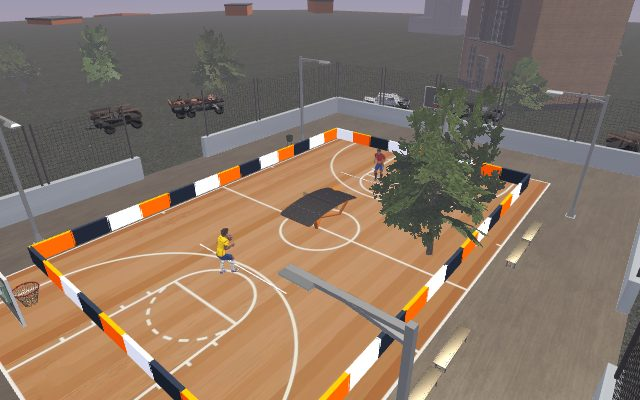
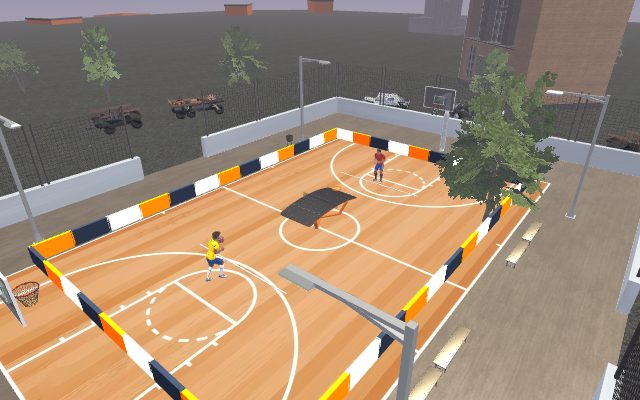
Kick with the feet everywhere, and light the outdoor courts
The feet-first rule only applied near the middle line, and near the middle line
means within 1.9 m of the net while players receive from three to seven metres
out — so almost every touch in a rally fell through to the deep branch, which
headed any high ball. That is why headers still dominated after the last
change. The ladder is the same wherever the player stands now; how high a ball
has to be sent from deep is a question for the flight, and `loftFloor` already
answers it. Measured over a real match: foot kicks 46%, backflips 8%, no
headers at all in twenty-four launches.

That loft is halved besides. The ramp threw a ball struck from the back of the
half almost straight up.

The side camera is up at about fifty degrees instead of thirty. The shallow
angle was chosen so the ball's height above the table would read, but from
nearly level the players overlap the table and each other, and knowing where
everybody is matters more.

Lighting follows the venue. One setting for an enclosed hall and three open-air
courts left the outdoor ones looking overcast; the hall keeps what it had,
since its own model carries that brightness.

Trees are pushed out to 23 m. At 18.5 the trunk stood outside the site but a
six-metre canopy leaned in over the boards, which from a raised camera is a
tree growing on the court.

The hall's card is shot from inside it — it is a closed building, so the
position the outdoor venues use photographs its roof — with the near plane
[…]

diff --git a/tests/character.test.ts b/tests/character.test.ts
@@ -589,19 +589,19 @@ describe("chooseStrike", () => {
   it("flips rather than heads a high ball on the strong side", () => {
     // Feet first is the whole point: up at the table a teqball player kicks or
     // flips, and the header used to win every high ball by default.
-    const clip = chooseStrike(at(0.95), RIGHT, STRONG_SIDE, righty, true, 1, () => 0.5, 0);
+    const clip = chooseStrike(at(0.95), RIGHT, STRONG_SIDE, righty, () => 0.5, 0);
 
     expect(clip).toBe("BackflipRightFoot");
   });
 
   it("kicks a mid ball rather than heading it", () => {
-    const clip = chooseStrike(at(0.4), RIGHT, STRONG_SIDE, righty, true, 1, () => 0.5, 0);
+    const clip = chooseStrike(at(0.4), RIGHT, STRONG_SIDE, righty, () => 0.5, 0);
 
     expect(clip).toBe("RightFootKick");
   });
 
   it("only takes a touch when the ball is too low for any of it", () => {
-    const clip = chooseStrike(at(0.05), RIGHT, STRONG_SIDE, righty, true, 1, () => 0.5, 0);
+    const clip = chooseStrike(at(0.05), RIGHT, STRONG_SIDE, righty, () => 0.5, 0);
 
     expect(clip).toBe("InnerRightFootReception");
   });
@@ -614,13 +614,13 @@ describe("chooseStrike", () => {
 
     it("heads it when the roll beats the weak foot's score", () => {
       // 0.9 > 0.70, so the foot is not trusted this time.
-      const clip = chooseStrike(high, weakSide, STRONG_SIDE, righty, true, 1, () => 0.9, 0);
+      const clip = chooseStrike(high, weakSide, STRONG_SIDE, righty, () => 0.9, 0);
 
       expect(clip).toBe("LeftHeadKick");
     });
 
     it("uses the foot when the roll is inside it", () => {
-      const clip = chooseStrike(high, weakSide, STRONG_SIDE, righty, true, 1, () => 0.5, 0);
+      const clip = chooseStrike(high, weakSide, STRONG_SIDE, righty, () => 0.5, 0);
 
       expect(clip).not.toContain("HeadKick");
     });
@@ -631,7 +631,7 @@ describe("chooseStrike", () => {
       const headers = (def: typeof poor) => {
         let n = 0;
         for (let i = 0; i < 400; i++) {
-          if (chooseStrike(high, weakSide, STRONG_SIDE, def, true, 1).includes("HeadKick")) n++;
+          if (chooseStrike(high, weakSide, STRONG_SIDE, def).includes("HeadKick")) n++;
         }
         return n;
       };
@@ -643,13 +643,13 @@ describe("chooseStrike", () => {
       // They have no weak side, so nothing about the ball's side matters.
       const ambi = player({ strongFoot: "both", weakFoot: 100, backflips: "none" });
       for (let i = 0; i < 200; i++) {
-        expect(chooseStrike(high, weakSide, STRONG_SIDE, ambi, true, 1)).not.toContain("HeadKick");
+        expect(chooseStrike(high, weakSide, STRONG_SIDE, ambi)).not.toContain("HeadKick");
       }
     });
 
     it("does not head a ball that is too low to head", () => {
       // Weak side, but at knee height there is no header to play.
-      const clip = chooseStrike(at(0.4), weakSide, STRONG_SIDE, righty, true, 1, () => 0.99, 0);
+      const clip = chooseStrike(at(0.4), weakSide, STRONG_SIDE, righty, () => 0.99, 0);
 
       expect(clip).not.toContain("HeadKick");
     });
@@ -657,7 +657,7 @@ describe("chooseStrike", () => {
 
   describe("backflips stay on one side of the court", () => {
     it("flips off the strong foot when standing on that side", () => {
-      expect(chooseStrike(at(0.9), RIGHT, 1, righty, true, 1, () => 0.5, 0)).toBe(
+      expect(chooseStrike(at(0.9), RIGHT, 1, righty, () => 0.5, 0)).toBe(
         "BackflipRightFoot"
       );
     });
@@ -665,7 +665,7 @@ describe("chooseStrike", () => {
     it("will not flip from the weak side", () => {
       // The leg that comes over is the outside one, so the far side of the
       // court has no flip in it — that is what "only one side" means.
-      const clip = chooseStrike(at(0.9), RIGHT, -1, righty, true, 1, () => 0.5, 0);
+      const clip = chooseStrike(at(0.9), RIGHT, -1, righty, () => 0.5, 0);
 
       expect(clip).not.toContain("Backflip");
     });
@@ -673,26 +673,16 @@ describe("chooseStrike", () => {
     it("gives a two-footed player a flip from either side", () => {
       const ambi = player({ strongFoot: "both", weakFoot: 100, backflips: "strong" });
 
-      expect(chooseStrike(at(0.9), RIGHT, 1, ambi, true, 1, () => 0.5, 0)).toBe("BackflipRightFoot");
-      expect(chooseStrike(at(0.9), LEFT, -1, ambi, true, 1, () => 0.5, 0)).toBe("BackflipLeftFoot");
+      expect(chooseStrike(at(0.9), RIGHT, 1, ambi, () => 0.5, 0)).toBe("BackflipRightFoot");
+      expect(chooseStrike(at(0.9), LEFT, -1, ambi, () => 0.5, 0)).toBe("BackflipLeftFoot");
     });
 
     it("gives nothing to a player who does not flip at all", () => {
       const grounded = player({ strongFoot: "right", weakFoot: 100, backflips: "none" });
-      const clip = chooseStrike(at(0.9), RIGHT, 1, grounded, true, 1, () => 0.5, 0);
+      const clip = chooseStrike(at(0.9), RIGHT, 1, grounded, () => 0.5, 0);
 
       expect(clip).toBe("RightFootKick");
     });
-  });
-
-  it("plays no hard shot from deep in the half", () => {
-    // There is no angle through which a driven ball from the baseline clears
-    // the net and lands, so the deep game stays a lofted one.
-    for (const rel of [0.2, 0.5, 0.95]) {
-      const clip = chooseStrike(at(rel), RIGHT, STRONG_SIDE, righty, false, 1, () => 0.5, 0);
-      expect(clip, `rel ${rel}`).not.toContain("Backflip");
-      expect(clip, `rel ${rel}`).not.toContain("FootKick");
-    }
   });
 
   it("only ever returns a real clip with a contact frame", () => {
@@ -706,8 +696,7 @@ describe("chooseStrike", () => {
         Math.random() * height * 1.2,
         Math.random() * 1.6 - 0.8,
         Math.random() * 2 - 1,
-        def,
-        i % 2 === 0
+        def
       );
       expect(CLIPS[clip], clip).toBeDefined();
       expect(CLIPS[clip].contact, clip).toBeGreaterThan(0);

diff --git a/src/scene.ts b/src/scene.ts
@@ -43,6 +43,17 @@ import { buildSurroundings } from "./surroundings";
 // Meshopt-compressed GLBs are decoded locally so hosted builds do not depend
 // on a third-party CDN just to display a character or the arena.
 MeshoptCompression.Configuration = { decoder: { url: "/meshopt_decoder.js" } };
+/**
+ * How much light each kind of venue gets.
+ *
+ * The sports hall is lit by its own roof lights and its model carries that
+ * brightness in its textures; the outdoor grounds are lit only by these two,
+ * and at the hall's levels they read as overcast at dusk. So the lighting
+ * follows the venue rather than being one setting for all four.
+ */
+const INDOOR_LIGHT = { hemi: 0.8, sun: 1.15 };
+const OUTDOOR_LIGHT = { hemi: 1.25, sun: 1.75 };
+
 
 export interface GameScene {
   engine: Engine;
@@ -133,14 +144,14 @@ export async function createGameScene(
   grade.colorCurves = curves;
 
   const hemi = new HemisphericLight("hemi", new Vector3(0.2, 1, 0.1), scene);
-  hemi.intensity = 0.8;
+  hemi.intensity = INDOOR_LIGHT.hemi;
   // A blue-tinted bounce off the ground rather than a grey one: neutral fill
   // is what drains colour out of everything facing away from the sun.
   hemi.groundColor = new Color3(0.16, 0.19, 0.3);
 
   const sun = new DirectionalLight("sun", new Vector3(-0.35, -1, 0.25), scene);
   sun.position = new Vector3(3, 9, -3);
-  sun.intensity = 1.15;
+  sun.intensity = INDOOR_LIGHT.sun;
   sun.diffuse = new Color3(1, 0.96, 0.86);
   let shadows: ShadowGenerator | null = null;
   if (quality.shadowMapSize !== null) {
@@ -182,6 +193,11 @@ export async function createGameScene(
     }
     arenaPromise = null;
     built = next;
+    // An enclosed hall and an open-air court are not the same lighting problem,
+    // and one setting for both left the outdoor grounds looking overcast.
+    const level = next.id === "gym" ? INDOOR_LIGHT : OUTDOOR_LIGHT;
+    hemi.intensity = level.hemi;
+    sun.intensity = level.sun;
     const root = new TransformNode("venue-root", scene);
     venueRoot = root;
     const before = new Set<unknown>([...scene.meshes, ...scene.transformNodes]);

diff --git a/src/character.ts b/src/character.ts
@@ -791,22 +791,20 @@ export function chooseStrike(
   lateral: number,
   stance: number,
   def: CharacterDef,
-  /** Only near the middle line are the hard shots on the menu at all. */
-  nearMiddle: boolean,
-  power = 0.6,
   rand: () => number = Math.random,
   relJitter: number = bandJitter()
 ): string {
   const rel = ballY / def.height + relJitter;
   const side = pickSide(lateral, def.strongFoot);
 
-  // Deep in the half there is no angle through which a driven ball clears the
-  // net and lands, so the choice there stays what it was: reach it, and loft it.
-  if (!nearMiddle) {
-    if (rel > STRIKE_BANDS.header) return `${side}HeadKick`;
-    if (rel > 0.45) return power >= 0.5 ? "ChestKick" : `${side}KneeReception`;
-    return `Inner${side}FootReception`;
-  }
+  // The same ladder wherever the player is standing.
+  //
+  // It used to fall back to a header for anything played from outside smash
+  // range, and smash range is 1.9 m from the net while players receive from
+  // three to seven metres out — so nearly every touch in a rally took that
+  // branch and the whole game was headers. How high a ball has to be sent from
+  // deep is a question for the flight, not for the animation, and `loftFloor`
+  // already answers it.
 
   // The weak side, high enough to head: the one case a header is the answer.
   if (rel >= STRIKE_BANDS.header && onWeakSide(lateral, def)) {

diff --git a/src/surroundings.ts b/src/surroundings.ts
@@ -227,7 +227,10 @@ function buildCity(scene: Scene, spec: Surrounds, props: PropLibrary, out: Mesh[
     );
     out.push(
       ...scatterProps(props.get("tree") ?? [], {
-        count: 24, inner: 18.5, outer: 46, facing: "any", vary: 0.22, seed: 73, models: 5,
+        // Well clear of the fence. At 18.5 the trunk stood outside the site
+        // but a six-metre canopy leaned in over the boards, and from the
+        // raised camera that reads as a tree growing on the court.
+        count: 24, inner: 23, outer: 46, facing: "any", vary: 0.22, seed: 73, models: 5,
       })
     );
   }
@@ -495,7 +498,9 @@ function buildPark(scene: Scene, spec: Surrounds, props: PropLibrary, out: Mesh[
   if (trees.length > 0) {
     out.push(
       ...scatterProps(trees, {
-        count: spec.count, inner: SITE_RADIUS + 4, outer: SITE_RADIUS + 42, facing: "any", vary: 0.28, seed: 9, models: 6,
+        // Same clearance as the city's trees: a canopy that overhangs the
+        // fence reads as a tree standing on the court.
+        count: spec.count, inner: SITE_RADIUS + 8, outer: SITE_RADIUS + 42, facing: "any", vary: 0.28, seed: 9, models: 6,
       })
     );
     // Undergrowth close in, doing the job the hedge ring below was built for:

diff --git a/src/config.ts b/src/config.ts
@@ -226,10 +226,14 @@ const SIDE_SLANT = SIDE_HALF_WIDTH / Math.tan(SIDE_FOV / 2);
 /**
  * How far the side camera is tilted down, in radians.
  *
- * Shallow — about 31 degrees. Steeper reads as the top view this replaced, and
- * the point of a side view is to see the ball's height above the table.
+ * About 50 degrees: high, looking down the court. The first attempt was half
+ * that, on the theory that a side view exists to show the ball's height above
+ * the table — but from nearly level the two players overlap the table and each
+ * other, and what the shot gains in height it loses in being able to tell
+ * where anybody is. The lens distance is unchanged, so raising the pitch
+ * raises the camera rather than pulling it back.
  */
-const SIDE_PITCH = 0.55;
+const SIDE_PITCH = 0.87;
 
 const PORTRAIT_FOV = 0.88;
 /** Headroom beyond the bare "table and player both fit" solution. */

diff --git a/src/environment.ts b/src/environment.ts
@@ -184,7 +184,18 @@ export interface CrowdLibrary {
  * Returns an empty library rather than throwing: the caller already treats
  * that as "venue without a crowd", which beats a venue that will not open.
  */
+/**
+ * Whether spectators are placed at all.
+ *
+ * Off for this release, by decision: the crowd is going into a later version.
+ * Everything it needs is still here — the figures, their baked animation, the
+ * bake pipeline and the placement below — so turning it back on is this one
+ * flag, not a rebuild.
+ */
+const SHOW_CROWD = false;
+
 async function loadRiggedCrowdLibrary(scene: Scene): Promise<CrowdLibrary> {
+  if (!SHOW_CROWD) return { standing: [], seated: [], rigged: new Map() };
   const figures = await loadRiggedFigures(scene);
   driveCrowdClocks(scene, figures);
   const rigged = new Map<Mesh, RiggedFigure>();

diff --git a/src/aim.ts b/src/aim.ts
@@ -112,7 +112,9 @@ export function loftFloor(fromMiddle: number): number {
   // smoothly. Writing the start as `loftFor(1)` rather than as its value is
   // what keeps that true when the swipe curve is retuned — a literal here
   // would silently become a step the day loftFor changed.
-  return Math.min(1.6, loftFor(1) + past * 0.55);
+  // Halved. The old ramp threw a ball struck from the back of the half almost
+  // straight up — a shot nobody aimed and nobody enjoyed watching come down.
+  return Math.min(0.8, loftFor(1) + past * 0.28);
 }
 
 /** Whether the hard clips — foot volleys and backflips — are on from here. */

diff --git a/src/match.ts b/src/match.ts
@@ -1224,7 +1224,7 @@ export class MatchController {
     // standing, not by where the ball is, so the stance is signed in the
     // player's own frame the same way `lateral` above is.
     const stance = c.position.z * (side === "player" ? -1 : 1);
-    let clip = chooseStrike(ballHeight, lateral, stance, c.def, nearMiddle, power);
+    let clip = chooseStrike(ballHeight, lateral, stance, c.def);
     // A model without the clip falls back to a kick rather than standing still.
     if (!c.groups.has(clip) && clip.startsWith("Backflip")) {
       clip = `${lateral >= 0 ? "Right" : "Left"}FootKick`;
